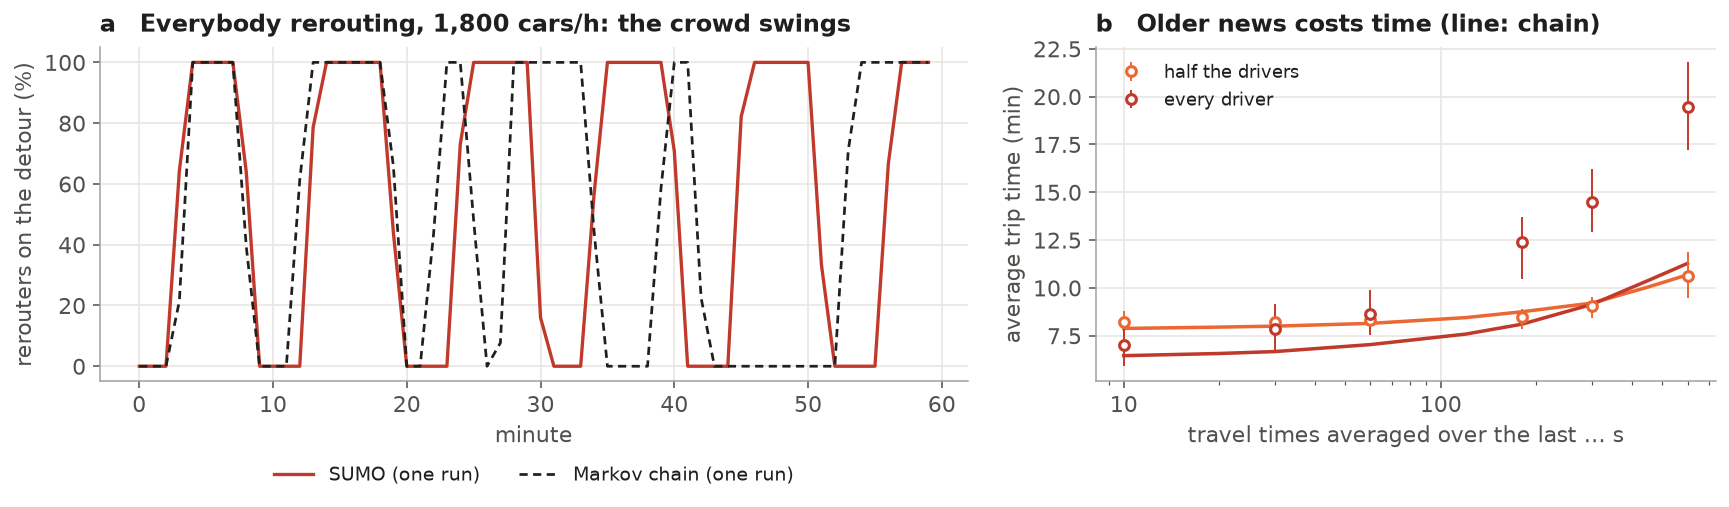
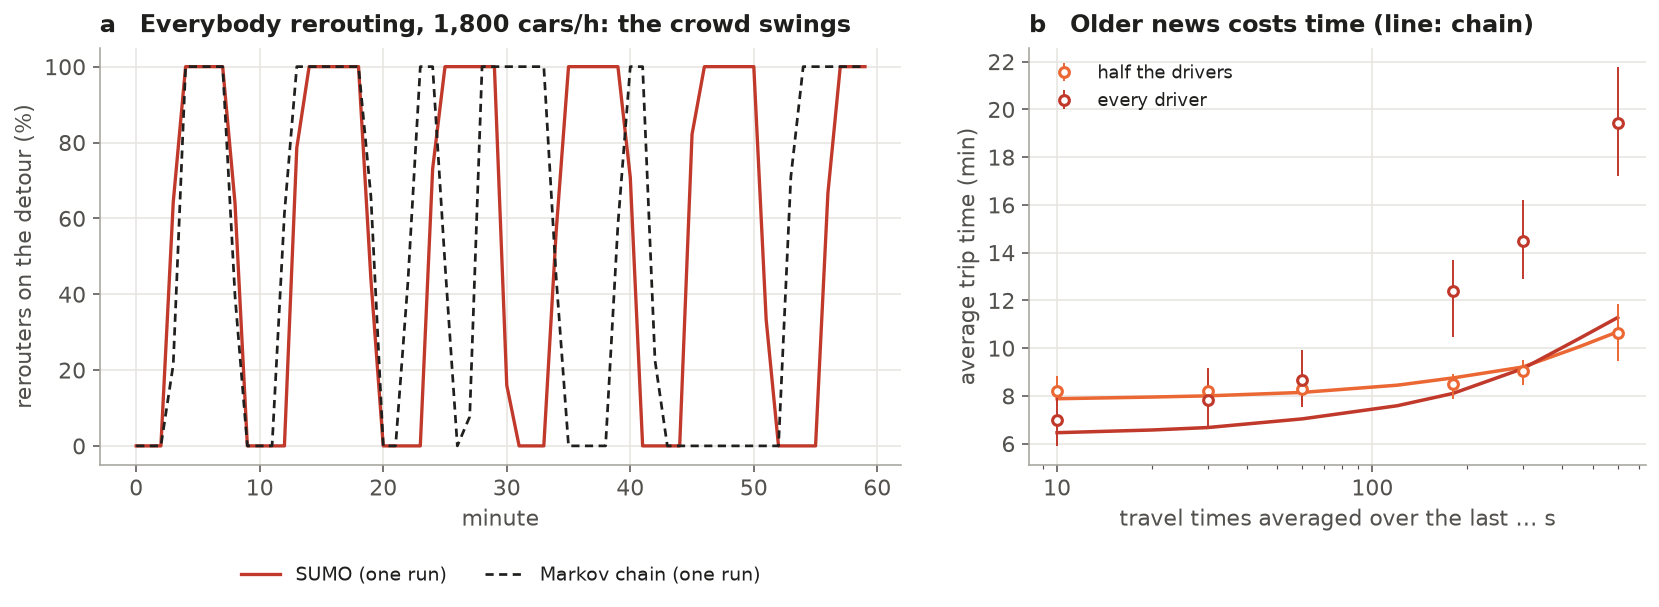
Figures: 2x2 layouts that stay legible on GitHub; diagram boxes no longer clipped

Changed region(s): [[0.0, 0.0, 1.0, 0.8876], [0.3074, 0.9172, 0.4611, 0.9763], [0.1537, 0.9172, 0.2767, 0.9763]]

diff --git a/rerouting/figures.py b/rerouting/figures.py
@@ -131,8 +131,8 @@ def fig2_how_much():
     r1, r2 = cal["roads"]
     cc = chain_curves()
     rows = load("two_road_demand")
-    fig, axes = plt.subplots(1, 4, figsize=(18, 3.9))
-    ax0, ax1, ax2, ax3 = axes
+    fig, axes = plt.subplots(2, 2, figsize=(11.5, 8.4))
+    ax0, ax1, ax2, ax3 = axes.flat
     # (a) one road: the chain's stationary law against runs with everybody forced on that road
     forced = load("two_road_calibration") + load("two_road_queue_law")
     for route, road, ls in (("short", r1, "-"), ("long", r2, (0, (4, 2)))):
@@ -185,15 +185,16 @@ def fig2_how_much():
     handles = [plt.Line2D([], [], color=INK2, lw=1.8, label="Markov chain (line)"),
                plt.Line2D([], [], color=INK2, marker="o", mfc="white", ls="none", label="SUMO, 5 runs (dots, range)")]
     handles += [plt.Line2D([], [], color=COLOR[p], lw=3, label=LABEL[p]) for p in ("no_information", "live_0.5", "live_1.0")]
-    fig.legend(handles=handles, loc="lower center", ncol=5, fontsize=10, bbox_to_anchor=(0.5, -0.1))
-    fig.tight_layout(w_pad=2.2)
+    fig.legend(handles=handles, loc="lower center", ncol=3, fontsize=10, bbox_to_anchor=(0.5, -0.07))
+    fig.tight_layout(w_pad=2.2, h_pad=2.0)
     save(fig, "fig2_how_much")
 
 
 def fig3_how_many():
     cc = chain_curves()
     rows = load("two_road_share_series")
-    fig, axes = plt.subplots(1, 4, figsize=(18, 3.9))
+    fig, axes = plt.subplots(2, 2, figsize=(11.5, 8.4))
+    axes = axes.flat
     from rerouting.markov import swing, switches
     panels = [(1, "journey", 1 / 60, "average trip time (min)", "a   Trip time"),
               (4, "long_share_rerouters", 100, "rerouters on the detour (%)", "b   Where rerouters go"),
@@ -215,15 +216,15 @@ def fig3_how_many():
     handles = [plt.Line2D([], [], color=INK2, lw=1.8, label="Markov chain (line)"),
                plt.Line2D([], [], color=INK2, marker="o", mfc="white", ls="none", label="SUMO, 5 runs (dots, range)")]
     handles += [plt.Line2D([], [], color=c, lw=3, label=f"{d:,} cars/h") for d, c in DEMAND_COLOR.items()]
-    fig.legend(handles=handles, loc="lower center", ncol=5, fontsize=10, bbox_to_anchor=(0.5, -0.1))
-    fig.tight_layout(w_pad=2.2)
+    fig.legend(handles=handles, loc="lower center", ncol=3, fontsize=10, bbox_to_anchor=(0.5, -0.07))
+    fig.tight_layout(w_pad=2.2, h_pad=2.0)
     save(fig, "fig3_how_many")
 
 
 def fig4_old_news():
     cc = chain_curves()
     rows = load("two_road_information")
-    fig, (ax1, ax2) = plt.subplots(1, 2, figsize=(12.5, 3.9), gridspec_kw={"width_ratios": [1.4, 1]})
+    fig, (ax1, ax2) = plt.subplots(1, 2, figsize=(12, 4.6), gridspec_kw={"width_ratios": [1.3, 1]})
     sumo = next((r for r in load("two_road_share_series") if r["demand"] == 1800 and r["share"] == 1.0
                  and r["seed"] == 1), None)
     if sumo:
@@ -258,7 +259,8 @@ def fig4_old_news():
 
 def fig5_networks():
     grid, city, share, info = load("grid_demand"), load("city"), load("grid_share"), load("grid_information")
-    fig, (ax1, ax2, ax3, ax4) = plt.subplots(1, 4, figsize=(18, 3.9), gridspec_kw={"width_ratios": [1.2, 1, 1, 1.1]})
+    fig, axes = plt.subplots(2, 2, figsize=(11.5, 8.4))
+    ax1, ax2, ax3, ax4 = axes.flat
     # (a) trip time against traffic
     demands = sorted({r["demand"] for r in grid})
     groups = by(grid, "policy", "demand")
@@ -311,8 +313,8 @@ def fig5_networks():
     ax4.set_title("d   La Rochelle (% = trips finished)")
     ax4.grid(axis="x", visible=False)
     handles, labels = ax1.get_legend_handles_labels()
-    fig.legend(handles, labels, loc="lower center", ncol=3, fontsize=10, bbox_to_anchor=(0.5, -0.08))
-    fig.tight_layout(w_pad=2.2)
+    fig.legend(handles, labels, loc="lower center", ncol=3, fontsize=10, bbox_to_anchor=(0.5, -0.05))
+    fig.tight_layout(w_pad=2.2, h_pad=2.0)
     save(fig, "fig5_networks")
 
 
@@ -323,25 +325,26 @@ def fig_chain():
     from matplotlib.patches import FancyArrowPatch, FancyBboxPatch, Circle
     fig, (ax, bx) = plt.subplots(1, 2, figsize=(15, 4.6), gridspec_kw={"width_ratios": [1.1, 1]})
     for a in (ax, bx):
-        a.set_xlim(0, 10.6)
-        a.set_ylim(-0.3, 6)
+        a.set_xlim(-0.3, 10.6)
+        a.set_ylim(-0.5, 6)
         a.set_aspect("equal")
         a.axis("off")
 
     def box(a, x, y, w, h, text, fc, ec, size=10.5, weight="normal"):
-        a.add_patch(FancyBboxPatch((x, y), w, h, boxstyle="round,pad=0.08,rounding_size=0.15", fc=fc, ec=ec, lw=1.4))
+        a.add_patch(FancyBboxPatch((x, y), w, h, boxstyle="round,pad=0.08,rounding_size=0.15", fc=fc, ec=ec, lw=1.4,
+                                   clip_on=False))
         a.text(x + w / 2, y + h / 2, text, ha="center", va="center", fontsize=size, color=INK, weight=weight)
 
     def arrow(a, p, q, color=INK2, ls="-", rad=0.0, text=None, tx=0.0, ty=0.18, size=9.5):
         a.add_patch(FancyArrowPatch(p, q, arrowstyle="-|>", mutation_scale=13, color=color, lw=1.5, ls=ls,
-                                    connectionstyle=f"arc3,rad={rad}"))
+                                    connectionstyle=f"arc3,rad={rad}", clip_on=False))
         if text:
             a.text((p[0] + q[0]) / 2 + tx, (p[1] + q[1]) / 2 + ty, text, ha="center", va="bottom", fontsize=size,
                    color=color)
 
     # (a) the whole system
     ax.set_title("a   The state: two queues and one piece of news", loc="left")
-    box(ax, 0.0, 2.35, 1.6, 1.1, "a car\narrives\n(prob. d/3600)", "#f4f3ef", MUTED, 9.5)
+    box(ax, -0.2, 2.35, 1.85, 1.1, "a car\narrives\n(prob. d/3600)", "#f4f3ef", MUTED, 9.5)
     box(ax, 2.3, 2.35, 1.6, 1.1, "no app:\nshort road\napp: road s", "#fdebe3", COLOR["live_0.5"], 9.5)
     arrow(ax, (1.7, 2.9), (2.3, 2.9))
     for y, name, n, road in ((3.9, "short road", "n₁", "C₁"), (0.9, "detour", "n₂", "C₂")):
